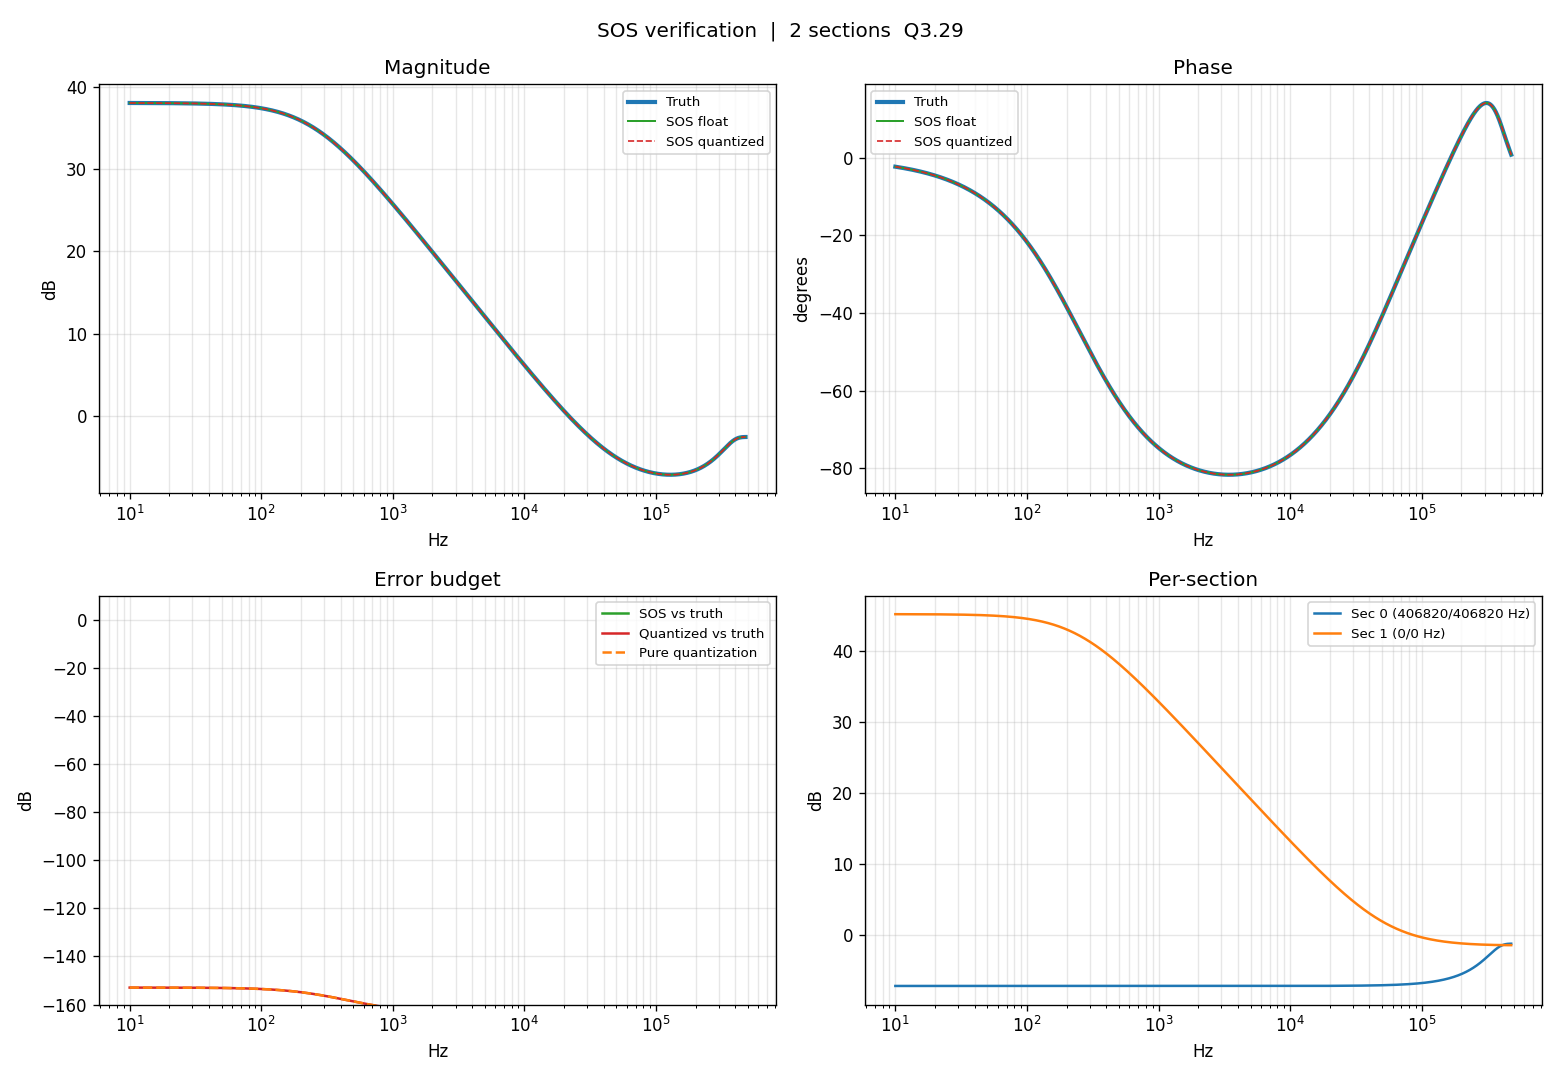
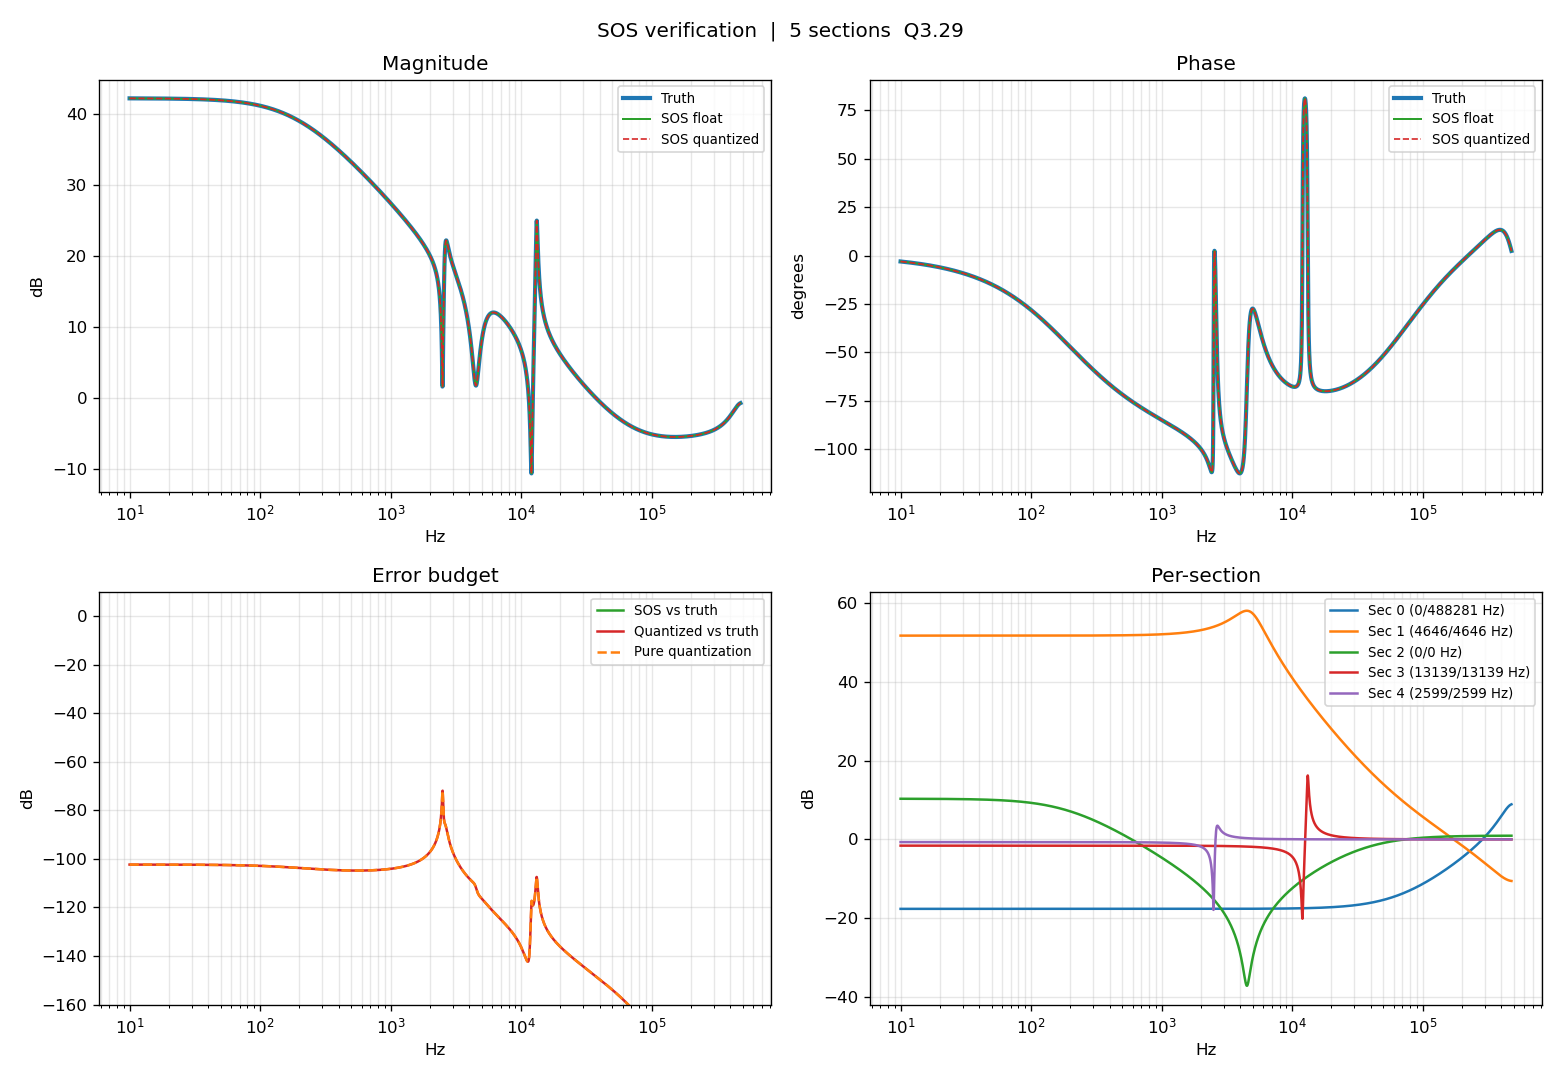
Working

diff --git a/scripts/ctrl.py b/scripts/ctrl.py
@@ -11,13 +11,7 @@ via the --plant-npz flag when you have real measurement data.
 
 Outputs:
   K_zpk.npz            — discrete controller ZPK (consumed by coeffs_analyze.py)
-  hinf_comparison.png  — open-loop Bode: plant only vs. plant × K
-
-Weight heuristics (mixed-sensitivity: |W1·S| ≤ 1, |W2·K·S| ≤ 1, |W3·T| ≤ 1):
-  W1 (performance, low-freq): DC gain ~10–100; corner ~ f_xover / 2;  HF < 1
-  W3 (robustness, high-freq): DC ~ 0.01–0.1;    corner ~ f_xover × 1.5; HF > 5
-  W2 (effort): loose; DC tiny, rolls up above actuator BW
-  γ < 1.5 is healthy; > 3 means the weights over-ask the plant.
+  hinf_comparison.png  — 3-panel Bode: Loop Gain, Phase, and Sensitivity
 """
 
 import argparse
@@ -26,7 +20,6 @@ import numpy as np
 import scipy.signal as sig
 import control as ct
 import matplotlib.pyplot as plt
-
 
 # ---------- CLI ----------
 def parse_args():
@@ -48,6 +41,11 @@ def parse_args():
     return p.parse_args()
 
 
+# def makeweight(dcgain, wc_norm, hfgain):
+#     """ Corrected H-infinity bounding weight formula """
+#     # W(s) = (HF * s + DC * wc) / (s + wc)
+#     return ct.tf([hfgain, wc_norm * dcgain], [1.0, wc_norm])
+
 def makeweight(dcgain, wc_norm, hfgain):
     if dcgain > hfgain:
         M, A = dcgain, hfgain / dcgain
@@ -56,12 +54,14 @@ def makeweight(dcgain, wc_norm, hfgain):
     return ct.tf([1.0, wc_norm * A], [1.0/M, wc_norm])
 
 
+
+
 def build_plant(args, w_norm):
     if args.plant_npz:
         d = np.load(args.plant_npz)
         zc = d["z"] / w_norm
         pc = d["p"] / w_norm
-        kc = float(d["k"]) * w_norm**(len(d["p"]) - len(d["z"]))
+        kc = float(d["k"]) * w_norm**(len(d["z"]) - len(d["p"]))
         num = np.poly(zc) * kc
         den = np.poly(pc)
         return ct.tf(num, den)
@@ -106,37 +106,68 @@ def main():
         print("  γ > 3: over-asked — lower --w1-dc or widen corners")
 
     L_ctrl = G_aug * K
+    S_ctrl = ct.feedback(1, L_ctrl) # Sensitivity S = 1 / (1 + L)
+    
     print()
     fc_c, pm_c = margins(L_ctrl, "plant × K", w_norm)
     fc_o, pm_o = margins(G_aug,   "plant only", w_norm)
+    
     peak_S = float(np.max(np.abs(np.asarray(
-        ct.frequency_response(ct.feedback(1, L_ctrl),
-                              np.logspace(-3, 3, 2000)).frdata).squeeze())))
+        ct.frequency_response(S_ctrl, np.logspace(-3, 3, 2000)).frdata).squeeze())))
     print(f"  peak |S| = {peak_S:.2f} ({20*np.log10(peak_S):.1f} dB)")
 
-    # --- Bode plot: plant only vs. plant × K --------------------------------
+    # --- 3-Panel Bode Plot: Magnitude, Phase, and Sensitivity -----------------
     w_dense = np.logspace(-3, 3, 4000)
     f_plot  = w_dense * w_norm / (2*np.pi)
     mag = lambda s: np.abs(np.asarray(ct.frequency_response(s, w_dense).frdata).squeeze())
     phd = lambda s: np.degrees(np.unwrap(np.angle(np.asarray(
         ct.frequency_response(s, w_dense).frdata).squeeze())))
 
-    fig, (ax1, ax2) = plt.subplots(2, 1, figsize=(10, 7), sharex=True)
-    title = f"Open-loop Bode  |  γ={gamma:.2f}"
+    # Make the figure taller to comfortably fit 3 panels
+    fig, (ax1, ax2, ax3) = plt.subplots(3, 1, figsize=(10, 11), sharex=True)
+    title = f"H-Infinity Synthesis  |  γ={gamma:.2f}"
     if pm_c: title += f"  |  with K: PM={pm_c:.0f}°@{fc_c/1e3:.1f} kHz"
-    fig.suptitle(title)
-    ax1.loglog(f_plot, mag(L_ctrl), color="C0", lw=2.0, label="|G·K| with controller")
-    ax1.loglog(f_plot, mag(G_aug),  color="C3", lw=1.5, ls="--", label="|G| plant only")
-    ax1.axhline(1.0, color="gray", ls=":", lw=0.8)
-    ax1.axvline(args.xover, color="purple", ls=":", lw=0.8, label=f"{args.xover/1e3:.0f} kHz target")
-    ax1.set_ylabel("Magnitude"); ax1.grid(True, which="both", alpha=0.3); ax1.legend(fontsize=9)
+    fig.suptitle(title, fontsize=14)
+    
+    # --- 1. Magnitude Plot ---
+    ax1.loglog(f_plot, mag(L_ctrl), color="C0", lw=2.5, label="|L| (Loop Gain: G·K)")
+    ax1.loglog(f_plot, mag(G_aug),  color="C3", lw=1.5, ls="--", label="|G| (Plant)")
+    # Made controller orange, thicker, and dashed for high visibility
+    ax1.loglog(f_plot, mag(K),      color="C1", lw=2.5, ls="--", label="|K| (Controller)") 
+    ax1.axhline(1.0, color="gray", ls=":", lw=1.0)
+    ax1.axvline(args.xover, color="purple", ls=":", lw=1.0, label=f"{args.xover/1e3:.0f} kHz target")
+    ax1.set_ylabel("Magnitude", fontsize=11)
+    ax1.grid(True, which="both", alpha=0.3)
+    ax1.legend(fontsize=10, loc="lower left")
 
-    ax2.semilogx(f_plot, phd(L_ctrl), color="C0", lw=2.0, label="∠(G·K)")
-    ax2.semilogx(f_plot, phd(G_aug),  color="C3", lw=1.5, ls="--", label="∠G")
-    ax2.axhline(-180, color="gray", ls=":", lw=0.8)
-    ax2.set_ylim([-360, 90])
-    ax2.set_xlabel("Frequency (Hz)"); ax2.set_ylabel("Phase (deg)")
-    ax2.grid(True, which="both", alpha=0.3); ax2.legend(fontsize=9)
+    # --- 2. Phase Plot ---
+    ax2.semilogx(f_plot, phd(L_ctrl), color="C0", lw=2.5, label="∠L (Loop Gain)")
+    ax2.semilogx(f_plot, phd(G_aug),  color="C3", lw=1.5, ls="--", label="∠G (Plant)")
+    ax2.semilogx(f_plot, phd(K),      color="C1", lw=2.5, ls="--", label="∠K (Controller)")
+    ax2.axhline(-180, color="gray", ls=":", lw=1.0)
+    ax2.axvline(args.xover, color="purple", ls=":", lw=1.0)
+    
+    # Auto-scale phase y-axis to handle large integrator wrap-around gracefully
+    current_ymin, current_ymax = ax2.get_ylim()
+    ax2.set_ylim([min(-360, current_ymin), max(90, current_ymax)])
+    
+    ax2.set_ylabel("Phase (deg)", fontsize=11)
+    ax2.grid(True, which="both", alpha=0.3)
+    ax2.legend(fontsize=10, loc="lower left")
+
+    # --- 3. Sensitivity Plot ---
+    mag_S_db = 20 * np.log10(mag(S_ctrl) + 1e-12) # Convert Sensitivity to dB
+    ax3.semilogx(f_plot, mag_S_db, color="C4", lw=2.5, label="|S| (Sensitivity)")
+    
+    # Prominent safety limit line
+    ax3.axhline(6.0, color="red", ls="-.", lw=1.5, label="+6.0 dB Safety Limit")
+    ax3.axvline(args.xover, color="purple", ls=":", lw=1.0)
+    
+    ax3.set_xlabel("Frequency (Hz)", fontsize=11)
+    ax3.set_ylabel("Magnitude (dB)", fontsize=11)
+    ax3.grid(True, which="both", alpha=0.3)
+    ax3.legend(fontsize=10, loc="upper left")
+
     plt.tight_layout()
     plt.savefig("hinf_comparison.png", dpi=120)
     print("Saved hinf_comparison.png")

diff --git a/scripts/create_plant.py b/scripts/create_plant.py
@@ -1,0 +1,114 @@
+"""
+create_plant.py
+
+Generates a continuous-time ZPK (Zero-Pole-Gain) .npz file 
+for use with ctrl.py via the --plant-npz flag.
+"""
+import numpy as np
+import matplotlib.pyplot as plt
+import scipy.signal as sig
+
+# =========================================================================
+# HELPER FUNCTIONS
+# =========================================================================
+
+def real_root(f_hz):
+    """Returns a single real root at the specified frequency in Hz."""
+    return [-abs(f_hz)]
+
+def complex_pair(fn_hz, Q):
+    """
+    Returns a pair of roots for a 2nd-order system given natural frequency and Q.
+    Handles both underdamped (complex conjugate) and overdamped (two real) cases.
+    """
+    zeta = 1.0 / (2.0 * Q)
+    if zeta < 1.0:
+        # Underdamped: Complex conjugate pair
+        wd = fn_hz * np.sqrt(1.0 - zeta**2)
+        sigma = -zeta * fn_hz
+        return [sigma + 1j*wd, sigma - 1j*wd]
+    else:
+        # Overdamped: Two real roots
+        w1 = fn_hz * (zeta - np.sqrt(zeta**2 - 1.0))
+        w2 = fn_hz * (zeta + np.sqrt(zeta**2 - 1.0))
+        return [-w1, -w2]
+
+# =========================================================================
+# USER CONFIGURATION
+# Construct your plant by adding lists of roots together.
+# =========================================================================
+
+ZEROS_HZ = sum([
+    # Add your zeros here
+    complex_pair(2.6e3, Q=15.0),
+    complex_pair(4.8e3, Q=2),
+    complex_pair(70e3, Q=0.4),
+    complex_pair(13e3, Q=25),
+], [])
+
+POLES_HZ = sum([
+    # Add your poles here
+    real_root(50e3),                     # Your default 50 kHz electronics LPF
+    complex_pair(fn_hz=2.5e3, Q=75.0),
+    complex_pair(fn_hz=4.5e3, Q=10.0),    # Example: Sharp mechanical resonance
+    complex_pair(fn_hz=80e3, Q=0.5),
+    complex_pair(12e3, Q=50)     # Example: Overdamped 2nd order roll-off
+], [])
+
+# Set the desired DC gain of the plant
+TARGET_DC_GAIN = 1.0
+OUTPUT_FILE = "custom_plant.npz"
+
+# =========================================================================
+# GENERATION MATH
+# =========================================================================
+
+def main():
+    print(f"Building custom plant: {len(ZEROS_HZ)} zeros, {len(POLES_HZ)} poles.")
+    
+    # 1. Convert from Hz to rad/s
+    z_rad = np.array(ZEROS_HZ) * 2 * np.pi
+    p_rad = np.array(POLES_HZ) * 2 * np.pi
+    
+    # 2. Calculate the raw gain 'k' required to hit the TARGET_DC_GAIN
+    prod_z = np.prod(-z_rad) if len(z_rad) > 0 else 1.0
+    prod_p = np.prod(-p_rad) if len(p_rad) > 0 else 1.0
+    
+    if np.isclose(np.abs(prod_p), 0):
+        print("Warning: Pole at origin detected. DC gain is infinite. Setting k=1.0.")
+        k_raw = 1.0
+    else:
+        k_raw = np.real(TARGET_DC_GAIN * prod_p / prod_z)
+        
+    print(f"Target DC Gain: {TARGET_DC_GAIN}")
+    print(f"Calculated raw k: {k_raw:.5e}")
+
+    # 3. Save to .npz
+    np.savez(OUTPUT_FILE, z=z_rad, p=p_rad, k=k_raw)
+    print(f"Saved to {OUTPUT_FILE}\n")
+
+    # 4. Plot verification Bode
+    w = np.logspace(1, 6, 2000) * 2 * np.pi
+    w_hz = w / (2 * np.pi)
+    
+    _, mag, phase = sig.bode((z_rad, p_rad, k_raw), w=w)
+    
+    fig, (ax1, ax2) = plt.subplots(2, 1, figsize=(8, 6), sharex=True)
+    fig.suptitle(f"Custom Plant Verification\nDC Gain = {TARGET_DC_GAIN:.2f}")
+    
+    ax1.semilogx(w_hz, mag, lw=2, color='C3')
+    ax1.set_ylabel("Magnitude (dB)")
+    ax1.grid(True, which="both", alpha=0.3)
+    ax1.axhline(20*np.log10(TARGET_DC_GAIN), color='gray', ls=':', lw=1.5, label="Target DC")
+    ax1.legend()
+    
+    ax2.semilogx(w_hz, phase, lw=2, color='C3')
+    ax2.set_ylabel("Phase (deg)")
+    ax2.set_xlabel("Frequency (Hz)")
+    ax2.grid(True, which="both", alpha=0.3)
+    
+    plt.tight_layout()
+    plt.show()
+
+if __name__ == "__main__":
+    main()

diff --git a/src/hinf_coeffs.h b/src/hinf_coeffs.h
@@ -1,19 +1,22 @@
 // hinf_coeffs.h — auto-generated by coeffs_analyze.py
-// Q3.29  2 sections  fs=0.9766 MHz  quant err -153.0 dB
+// Q3.29  5 sections  fs=0.9766 MHz  quant err -71.9 dB
 #ifndef HINF_COEFFS_H
 #define HINF_COEFFS_H
 #include <stdint.h>
 
-#define HINF_N_SECTIONS     2
+#define HINF_N_SECTIONS     5
 #define HINF_COEF_INT_BITS  3
 #define HINF_COEF_FRAC_BITS 29
 #define HINF_COEF_SCALE     536870912L
 
 typedef struct { int32_t b0,b1,b2,a1,a2; } hinf_sos_t;
 
-static const hinf_sos_t HINF_SOS[2] = {
-    {  326856804,  107636942,    1230370,  368634573,   84423253},
-    {  536870912, -705186076,  229220339, -863467320,  326932975}
+static const hinf_sos_t HINF_SOS[5] = {
+    {  381113017, -450197573,  132951282,   71139042, -121965894},
+    {  536870912, -217660736, -123200115,-1064987962,  528624956},
+    {  536870912,-1071740699,  535319086, -962103664,  425369522},
+    {  536870912,-1069721597,  536043771,-1068723563,  535683673},
+    {  536870912,-1073487825,  536755791,-1072993313,  536272556}
 };
 
 #endif

diff --git a/tb/tb_freq_response.cpp b/tb/tb_freq_response.cpp
@@ -145,7 +145,7 @@ int main()
         FILE *f = fopen("step_response.csv", "w");
         fprintf(f, "frame,input,output_ch1,output_ch2\n");
 
-        const int n_frames = 200;
+        const int n_frames = 2000;
         short last_ch1 = 0;
         for (int call = 0; call < n_frames; call++) {
             for (int k = 0; k < FRAME_SIZE; k++)
@@ -171,7 +171,7 @@ int main()
         FILE *f = fopen("impulse_response.csv", "w");
         fprintf(f, "frame,input,output_ch1\n");
 
-        const int n_frames = 300;
+        const int n_frames = 3000;
         int nonzero = 0; short maxabs = 0;
         for (int call = 0; call < n_frames; call++) {
             for (int k = 0; k < FRAME_SIZE; k++) {
